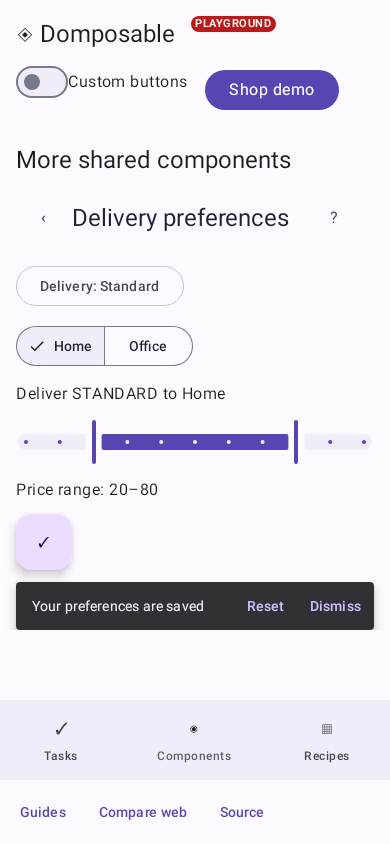
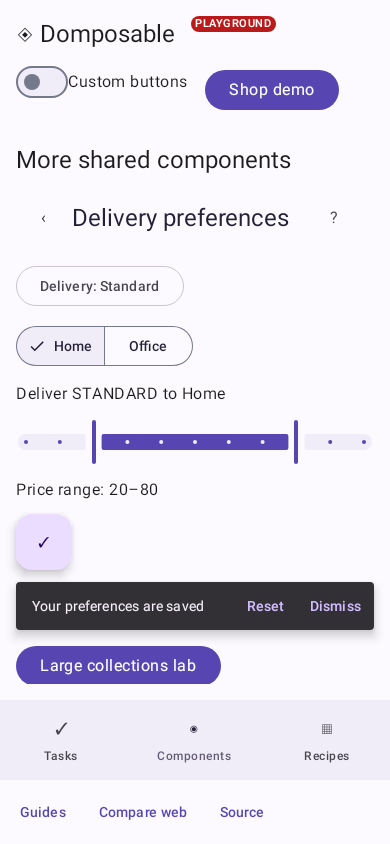
Cover collection galleries with native navigation and visual fixtures (#28)
* Expose native labs and add reviewed collection visual fixtures

* Update reviewed component-menu visual inputs

* Use the observed iOS selector label and reviewed gallery inputs

* Add inspected iOS row grid and table baselines

Changed region(s): [[0.0308, 0.7393, 0.9538, 0.8318]]

diff --git a/demo/src/commonMain/kotlin/io/github/samuolis/domposable/demo/CollectionLab.kt b/demo/src/commonMain/kotlin/io/github/samuolis/domposable/demo/CollectionLab.kt
@@ -8,6 +8,7 @@ import androidx.compose.runtime.saveable.rememberSaveable
 import androidx.compose.runtime.setValue
 import io.github.samuolis.domposable.foundation.DomposableScreen
 import io.github.samuolis.domposable.foundation.dp
+import io.github.samuolis.domposable.ui.DomposableBox
 import io.github.samuolis.domposable.ui.DomposableButton
 import io.github.samuolis.domposable.ui.DomposableColumn
 import io.github.samuolis.domposable.ui.DomposableLazyColumn
@@ -20,8 +21,10 @@ import io.github.samuolis.domposable.ui.DomposableSwitch
 import io.github.samuolis.domposable.ui.DomposableText
 import io.github.samuolis.domposable.ui.DomposableTextField
 import io.github.samuolis.domposable.ui.fillMaxWidth
+import io.github.samuolis.domposable.ui.height
 import io.github.samuolis.domposable.ui.padding
 import io.github.samuolis.domposable.ui.testId
+import io.github.samuolis.domposable.ui.verticalScroll
 import io.github.samuolis.domposable.ui.width
 
 @Composable
@@ -31,7 +34,7 @@ fun CollectionLab(onMore: () -> Unit = {}) {
     var windowed by rememberSaveable { mutableStateOf(true) }
     var reversed by rememberSaveable { mutableStateOf(false) }
     val items = remember(count, reversed) { List(count.toInt()) { if (reversed) count.toInt() - it - 1 else it } }
-    DomposableColumn(DomposableModifier.padding(16.dp).fillMaxWidth(), gap = 8.dp) {
+    DomposableColumn(DomposableModifier.padding(16.dp).fillMaxWidth().verticalScroll(), gap = 8.dp) {
         DomposableText("Large collections", headingLevel = 1)
         DomposableSelect(
             count,
@@ -41,17 +44,20 @@ fun CollectionLab(onMore: () -> Unit = {}) {
         )
         DomposableSwitch(windowed, { windowed = it }, "Windowed list")
         DomposableButton("Reverse rows", { reversed = !reversed })
-        DomposableLazyColumn(
-            items,
-            key = { "row-$it" },
-            modifier = DomposableModifier.testId("collection-lab-list").fillMaxWidth(),
-            gap = 4.dp,
-            window = if (windowed) DomposableListWindow(88.dp, 352.dp) else null,
-        ) { index ->
-            var note by rememberSaveable { mutableStateOf("") }
-            DomposableRow(gap = 8.dp) {
-                DomposableText("Row ${index + 1}", DomposableModifier.width(90.dp))
-                DomposableTextField(note, { note = it }, "Row ${index + 1} note", DomposableModifier.width(220.dp))
+        val viewport = DomposableModifier.fillMaxWidth().height(352.dp)
+        DomposableBox(if (windowed) viewport else viewport.verticalScroll()) {
+            DomposableLazyColumn(
+                items,
+                key = { "row-$it" },
+                modifier = DomposableModifier.testId("collection-lab-list").fillMaxWidth().height(352.dp),
+                gap = 4.dp,
+                window = if (windowed) DomposableListWindow(88.dp, 352.dp) else null,
+            ) { index ->
+                var note by rememberSaveable { mutableStateOf("") }
+                DomposableRow(gap = 8.dp) {
+                    DomposableText("Row ${index + 1}", DomposableModifier.width(90.dp))
+                    DomposableTextField(note, { note = it }, "Row ${index + 1} note", DomposableModifier.width(220.dp))
+                }
             }
         }
         DomposableButton("More collection recipes", onMore)

diff --git a/iosApp/DomposableDemoUITests/SmokeTests.swift b/iosApp/DomposableDemoUITests/SmokeTests.swift
@@ -108,4 +108,49 @@ final class SmokeTests: XCTestCase {
         ready(app, "Your bag")
         ready(app, "Canvas weekender")
     }
+    private func tapVisible(_ app: XCUIApplication, _ label: String) {
+        let button = app.buttons[label]
+        for _ in 0..<6 {
+            if button.exists && button.isHittable { button.tap(); return }
+            app.swipeUp()
+        }
+        XCTFail("Could not reach button: \(label)")
+    }
+    func testCollectionLayoutsAndTableInput() {
+        XCUIDevice.shared.orientation = .portrait
+        let app = XCUIApplication()
+        app.launch()
+        ready(app, "Task workspace")
+        app.buttons.matching(NSPredicate(format: "label CONTAINS %@", "Components")).firstMatch.tap()
+        ready(app, "Component catalog")
+        tapVisible(app, "More components")
+        ready(app, "More shared components")
+        tapVisible(app, "Large collections lab")
+        ready(app, "Large collections")
+        tapVisible(app, "More collection recipes")
+        ready(app, "Collection recipes")
+        capture(app, "collection-measured")
+        for (layout, name) in [("Horizontal row", "collection-row"), ("Responsive grid", "collection-grid"), ("Semantic table", "collection-table")] {
+            // Return to the selector before changing layout; no keyboard is open during goldens.
+            let selector = app.buttons.matching(NSPredicate(format: "label BEGINSWITH %@", "Collection layout,")).firstMatch
+            for _ in 0..<6 {
+                if selector.exists && selector.isHittable { break }
+                app.swipeDown()
+            }
+            XCTAssertTrue(selector.isHittable)
+            selector.tap()
+            let option = app.descendants(matching: .any).matching(NSPredicate(format: "label == %@", layout)).firstMatch
+            XCTAssertTrue(option.waitForExistence(timeout: 10))
+            option.tap()
+            ready(app, "Collection layout, Collection layout: \(layout)")
+            capture(app, name)
+        }
+        ready(app, "Inventory drafts")
+        let draft = app.descendants(matching: .any).matching(NSPredicate(format: "label == %@", "Item 1 draft")).firstMatch
+        XCTAssertTrue(draft.waitForExistence(timeout: 10))
+        draft.tap()
+        draft.typeText("iOS table draft")
+        XCTAssertTrue((draft.value as? String)?.contains("iOS table draft") == true)
+    }
+
 }

diff --git a/demo/src/androidHostTest/kotlin/io/github/samuolis/domposable/demo/NativeLabNavigationTest.kt b/demo/src/androidHostTest/kotlin/io/github/samuolis/domposable/demo/NativeLabNavigationTest.kt
@@ -1,0 +1,27 @@
+package io.github.samuolis.domposable.demo
+
+import androidx.compose.ui.test.junit4.v2.createComposeRule
+import androidx.compose.ui.test.onNodeWithText
+import androidx.compose.ui.test.performClick
+import androidx.compose.ui.test.performScrollTo
+import org.junit.Rule
+import org.junit.Test
+import org.junit.runner.RunWith
+import org.robolectric.RobolectricTestRunner
+import org.robolectric.annotation.Config
+
+@RunWith(RobolectricTestRunner::class)
+@Config(sdk = [36])
+class NativeLabNavigationTest {
+    @get:Rule val compose = createComposeRule()
+
+    @Test fun componentMenuReachesTheSemanticTableThroughNativeControls() {
+        compose.setContent { DemoApp(initialRoute = DemoRoute.ExtendedCatalog) }
+        compose.onNodeWithText("Large collections lab").performScrollTo().performClick()
+        compose.onNodeWithText("More collection recipes").performScrollTo().performClick()
+        compose.onNodeWithText("Collection recipes").assertExists()
+        compose.onNodeWithText("Collection layout: Measured column").performScrollTo().performClick()
+        compose.onNodeWithText("Semantic table").performClick()
+        compose.onNodeWithText("Inventory drafts").assertExists()
+    }
+}

diff --git a/demo/src/jvmTest/kotlin/io/github/samuolis/domposable/demo/NativeLabNavigationTest.kt b/demo/src/jvmTest/kotlin/io/github/samuolis/domposable/demo/NativeLabNavigationTest.kt
@@ -1,0 +1,22 @@
+package io.github.samuolis.domposable.demo
+
+import androidx.compose.ui.test.junit4.v2.createComposeRule
+import androidx.compose.ui.test.onNodeWithText
+import androidx.compose.ui.test.performClick
+import androidx.compose.ui.test.performScrollTo
+import org.junit.Rule
+import org.junit.Test
+
+class NativeLabNavigationTest {
+    @get:Rule val compose = createComposeRule()
+
+    @Test fun componentMenuReachesTheSemanticTableThroughNativeControls() {
+        compose.setContent { DemoApp(initialRoute = DemoRoute.ExtendedCatalog) }
+        compose.onNodeWithText("Large collections lab").performScrollTo().performClick()
+        compose.onNodeWithText("More collection recipes").performScrollTo().performClick()
+        compose.onNodeWithText("Collection recipes").assertExists()
+        compose.onNodeWithText("Collection layout: Measured column").performScrollTo().performClick()
+        compose.onNodeWithText("Semantic table").performClick()
+        compose.onNodeWithText("Inventory drafts").assertExists()
+    }
+}

diff --git a/demo/src/commonMain/kotlin/io/github/samuolis/domposable/demo/ExtendedCatalog.kt b/demo/src/commonMain/kotlin/io/github/samuolis/domposable/demo/ExtendedCatalog.kt
@@ -35,7 +35,10 @@ import io.github.samuolis.domposable.ui.verticalScroll
 /** A runnable shared feature. Every control is rendered by the installed platform provider. */
 @Composable
 @DomposableScreen(DemoRoute.ExtendedCatalog::class)
-fun ExtendedComponentCatalog() {
+fun ExtendedComponentCatalog(
+    onCollections: (() -> Unit)? = null,
+    onInputs: (() -> Unit)? = null,
+) {
     var delivery by rememberSaveable { mutableStateOf("standard") }
     var segment by rememberSaveable { mutableIntStateOf(0) }
     var minimum by rememberSaveable { mutableFloatStateOf(20f) }
@@ -99,6 +102,8 @@ fun ExtendedComponentCatalog() {
                 notice = "Preferences reset"
             }, onDismiss = { notice = null })
         }
+        onCollections?.let { DomposableButton("Large collections lab", it) }
+        onInputs?.let { DomposableButton("Input and accessibility lab", it) }
     }
     if (about) {
         DomposableDialog("About preferences", onDismiss = { about = false }) {

diff --git a/tests/browser/lab-navigation.spec.ts b/tests/browser/lab-navigation.spec.ts
@@ -1,0 +1,15 @@
+import { test, expect } from '@playwright/test';
+
+test('component menu exposes collection and input labs with owned routes', async ({ page }) => {
+  await page.goto('/#/components');
+  await page.getByRole('button', { name: 'Large collections lab', exact: true }).click();
+  await expect(page).toHaveURL(/#\/collections$/);
+  await page.getByRole('button', { name: 'More collection recipes', exact: true }).click();
+  await expect(page).toHaveURL(/#\/collection-recipes$/);
+  await expect(page.getByRole('heading', { name: 'Collection recipes', exact: true })).toBeVisible();
+  await page.goBack();
+  await page.goBack();
+  await page.getByRole('button', { name: 'Input and accessibility lab', exact: true }).click();
+  await expect(page).toHaveURL(/#\/inputs$/);
+  await expect(page.getByRole('textbox', { name: 'Display name', exact: true })).toBeVisible();
+});

diff --git a/demo/src/commonMain/kotlin/io/github/samuolis/domposable/demo/DemoApp.kt b/demo/src/commonMain/kotlin/io/github/samuolis/domposable/demo/DemoApp.kt
@@ -273,7 +273,14 @@ fun DemoApp(
                         ComponentCatalogScreen { stack.add(DomposableEntryScope(DemoRoute.ExtendedCatalog)) }
                     },
                 )
-                register(extendedComponentCatalogDestination())
+                register(
+                    extendedComponentCatalogDestination {
+                        ExtendedComponentCatalog(
+                            onCollections = { stack.add(DomposableEntryScope(DemoRoute.Collections)) },
+                            onInputs = { stack.add(DomposableEntryScope(DemoRoute.Inputs)) },
+                        )
+                    },
+                )
                 register(
                     navigationRecipesScreenDestination {
                         NavigationRecipesScreen(

diff --git a/docs/validation.md b/docs/validation.md
@@ -4,7 +4,7 @@ The required **CI passed** check combines workflow hygiene, Kotlin quality/cover
 
 - Required ktlint, detekt and Android lint checks enforce source formatting and correctness. Kover line/branch gates and individual core package floors prevent coverage regressions; [test coverage](coverage.md) explains scope and reports.
 - Shared JVM tests cover adaptive rules, modifier ordering, entry lifetime/saveables and optional ViewModels.
-- Android native-graphics Robolectric tests exercise feature input/back navigation and capture four scenes, including the storefront.
+- Android native-graphics Robolectric tests exercise feature input/back navigation and capture the workspace, component menus, storefront and collection layouts.
 - iOS XCUITest verifies native input, rotation and recipe navigation, and captures portrait/landscape scenes on iPad mini A17 Pro with **iOS 26.5**.
 - Browser behavior and axe accessibility checks run in Chromium, Firefox and WebKit. They cover wrapping, semantic landmarks/links, modal focus, tab keyboard behavior, adaptive drafts, hash history, path deep links/reload under a base path, and feature switching on the generated comparison page. Wasm fixture switching is checked in Chromium.
 - Visual comparisons cover **Android, iOS, JVM desktop, semantic HTML and Wasm**. HTML fixtures include phone/tablet/wide views, list/detail and a dialog. Wasm checks startup/errors and phone/wide rendering.
@@ -49,3 +49,9 @@ Ranker's review format is also used here: action title, scoped architecture bull
 Run **Publish visual review** with a completed CI run ID and the open PR number. It validates provenance against the current PR head, reads bounded PNG captures, fetches baseline images at the exact base revision, and uploads comparisons to the `visual-evidence` GitHub prerelease asset bucket. The job summary and `visual-review-markdown` artifact contain content-addressed image URLs to paste into `Visual evidence`. Each filename records the PR, CI run and SHA-256. The publisher verifies the downloaded PNG bytes and never overwrites an existing asset. Buckets rotate at GitHub’s asset limit; they are excluded from library release/version selection. No image branches are created. Reviewed golden inputs remain in main and full CI captures remain in Actions artifacts. Maintainers also inspect the rendered PR body before marking it ready.
 
 Generated comparisons stay outside main and feature branches. Approved golden inputs remain in `screenshots/`; documentation illustrations can be refreshed from them with `python scripts/ci/export_examples.py`. Recording candidates and publishing review evidence are separate from approving baseline updates.
+
+## Collection gallery fixtures
+
+The visual inventory has 53 fixtures: 9 Android, 9 desktop, 10 iOS, 17 HTML and 8 Wasm. The collection gallery has reviewed fixed-input captures for measured columns, horizontal rows, responsive grids and tables on Android, desktop, iOS and HTML. The iOS suite navigates the same app controls and edits a table cell after capturing all four modes. Wasm has a measured-column visual fixture alongside its interaction checks. Live-model diagnostic IDs in navigation policy previews are intentionally outside deterministic golden inputs.
+
+Open **Components → More components → Large collections lab → More collection recipes** on the native demo. The same menu also opens the input/accessibility lab. Golden candidates must be inspected before committing; the normal PR gate still fails missing or changed baselines.

diff --git a/docs/migration.md b/docs/migration.md
@@ -28,7 +28,7 @@ Use the [component recipes](components.md) and [call-path guide](how-it-works.md
 
 ## Collections and tables after 0.2.0
 
-Existing direct calls keep their defaults and old binary overloads remain available. The next minor adds `Table` as the 42nd required renderer and expands collection props: `DomposableLazyColumnProps.window`, `DomposableLazyRowProps.window`, `DomposableLazyGridProps.window` and `DomposableListWindow.measureRows`. Their constructors and generated `copy` signatures change. Recompile consumers when upgrading; this is a pre-1.0 ABI break even though ordinary source calls still compile.
+Existing direct calls keep their defaults and old binary overloads remain available. Version 0.3.0 adds `Table` as the 42nd required renderer and expands collection props: `DomposableLazyColumnProps.window`, `DomposableLazyRowProps.window`, `DomposableLazyGridProps.window` and `DomposableListWindow.measureRows`. Their constructors and generated `copy` signatures change. Recompile consumers when upgrading; this is a pre-1.0 ABI break even though ordinary source calls still compile.
 
 Complete custom providers must add a `table` renderer and decide how to honor the row/grid/list window contracts. A provider copied from `rememberDomposableMaterialComponents()` inherits the new implementation. The Material provider supports all four collection modes on native Compose, HTML and Wasm. Access provider slots by name, rather than destructuring generated `componentN` functions.
 

diff --git a/README.md b/README.md
@@ -36,7 +36,7 @@ Domposable is a Kotlin Multiplatform library built on Compose. Feature teams wri
 Your application owns its dependencies and state. Pass an existing ViewModel, use your DI container's Compose integration, or keep state in a composable.
 
 > [!NOTE]
-> This README describes `main`. Choose a published version from [Releases](https://github.com/samuolis/domposable/releases). The 0.1.x provider has 34 renderer contracts and 0.2.0 has 41. Main adds the 42nd (`Table`) for the next minor release. Before 1.0, minor releases may change APIs.
+> This README describes `main`. Choose a published version from [Releases](https://github.com/samuolis/domposable/releases). The 0.1.x provider has 34 renderer contracts and 0.2.0 has 41. The 0.3.0 work adds the 42nd (`Table`) contract. Before 1.0, minor releases may change APIs.
 
 ## Quick start
 
